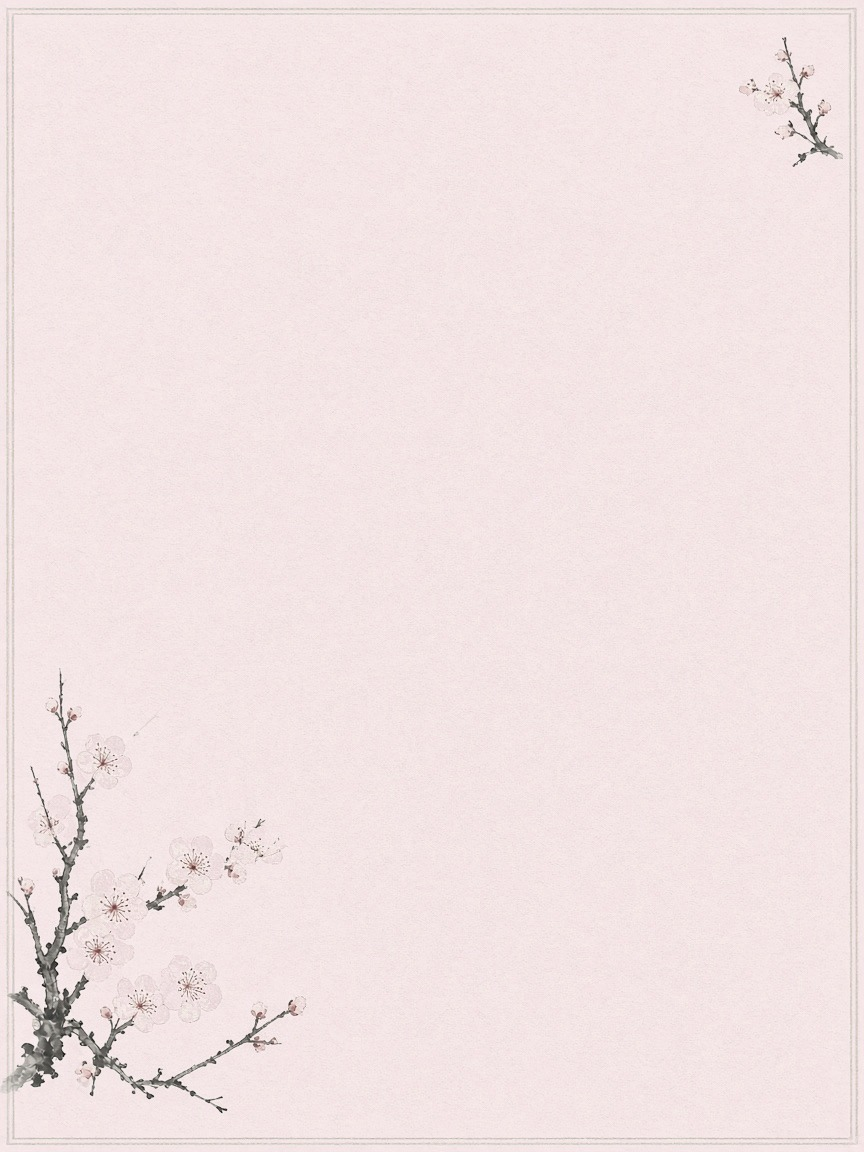
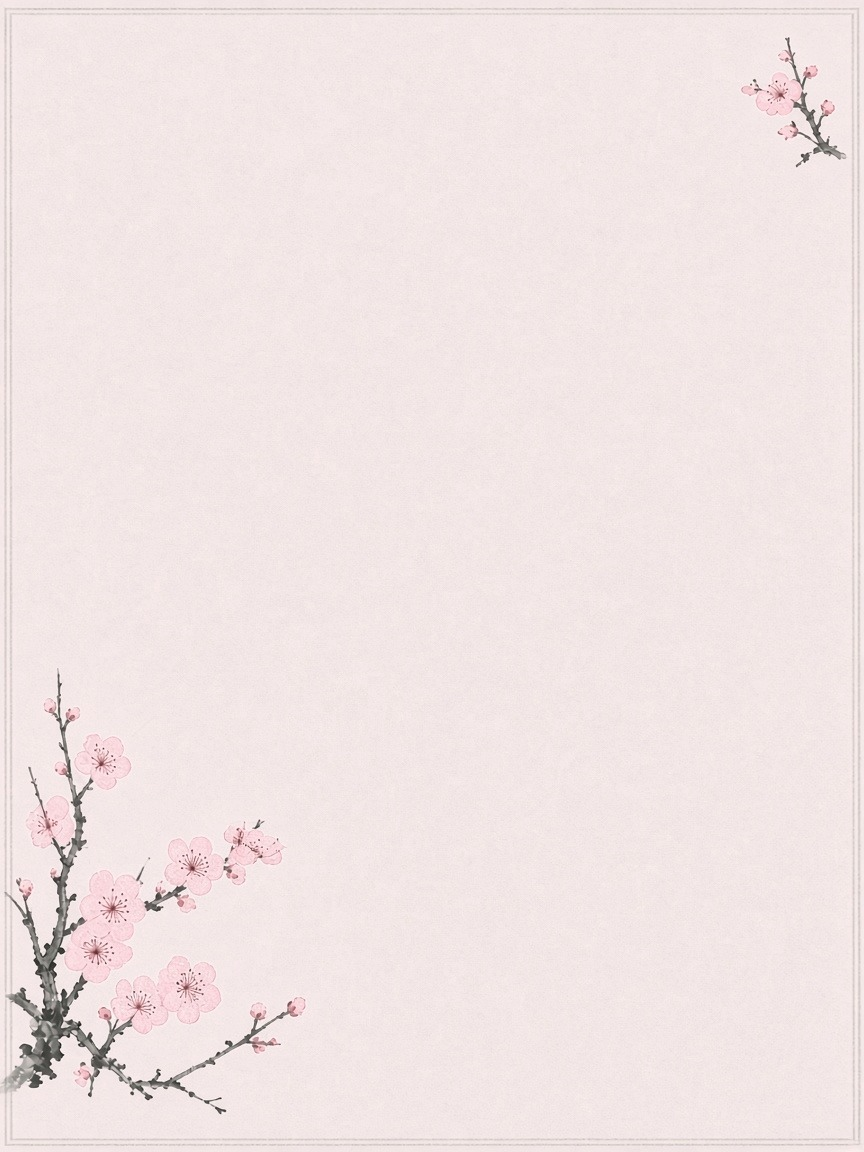
梅花改淺粉、荷花換成紫色睡蓮
梅花原先幾乎和粉底融在一起，改成比上一版紅梅再淺一階的粉紅。
荷花背景改為銀金紙上的紫色睡蓮，原先選過荷花的設定會自動對應到睡蓮。

diff --git a/copybook/index.html b/copybook/index.html
@@ -104,7 +104,7 @@
                                 <span class="bg-thumb bg-thumb--none"></span><span class="bg-name">無</span>
                             </button>
                             <button type="button" class="bg-tile" role="radio" aria-checked="false" data-bg="plum">
-                                <img class="bg-thumb" src="backgrounds/thumbs/plum.jpg?v=4" alt=""><span class="bg-name">梅花</span>
+                                <img class="bg-thumb" src="backgrounds/thumbs/plum.jpg?v=5" alt=""><span class="bg-name">梅花</span>
                             </button>
                             <button type="button" class="bg-tile" role="radio" aria-checked="false" data-bg="orchid">
                                 <img class="bg-thumb" src="backgrounds/thumbs/orchid.jpg?v=4" alt=""><span class="bg-name">蘭花</span>
@@ -118,8 +118,8 @@
                             <button type="button" class="bg-tile" role="radio" aria-checked="false" data-bg="peony">
                                 <img class="bg-thumb" src="backgrounds/thumbs/peony.jpg?v=4" alt=""><span class="bg-name">牡丹</span>
                             </button>
-                            <button type="button" class="bg-tile" role="radio" aria-checked="false" data-bg="lotus">
-                                <img class="bg-thumb" src="backgrounds/thumbs/lotus.jpg?v=5" alt=""><span class="bg-name">荷花</span>
+                            <button type="button" class="bg-tile" role="radio" aria-checked="false" data-bg="waterlily">
+                                <img class="bg-thumb" src="backgrounds/thumbs/waterlily.jpg?v=1" alt=""><span class="bg-name">睡蓮</span>
                             </button>
                             <button type="button" class="bg-tile bg-tile--upload" role="radio" aria-checked="false" data-bg="upload" id="btnBgImageUpload" title="上傳圖片作為字帖背景">
                                 <span class="bg-thumb bg-thumb--upload" id="bgUploadThumb"><span class="bg-plus" aria-hidden="true">＋</span></span><span class="bg-name">上傳</span>
@@ -181,6 +181,6 @@
         </div>
     </div>
 
-    <script src="app.js?v=90"></script>
+    <script src="app.js?v=91"></script>
 </body>
 </html>

diff --git a/copybook/app.js b/copybook/app.js
@@ -236,12 +236,12 @@
     var STROKE_CELLS_PER_LINE = 12;
     var BRUSH_FONT_STACK = "'YShiPenShutiTC', 'Kaiti TC', 'STKaiti', 'KaiTi', serif";
     var PHOTO_BGS = {
-        plum: 'backgrounds/\u6885\u82b1.jpg?v=5',
+        plum: 'backgrounds/\u6885\u82b1.jpg?v=6',
         orchid: 'backgrounds/\u862d\u82b1.jpg?v=5',
         bamboo: 'backgrounds/\u7af9\u5b50.jpg?v=5',
         chrysanthemum: 'backgrounds/\u83ca\u82b1.jpg?v=5',
         peony: 'backgrounds/\u7261\u4e39.jpg?v=5',
-        lotus: 'backgrounds/\u8377\u82b1.jpg?v=6'
+        waterlily: 'backgrounds/\u7761\u84ee.jpg?v=1'
     };
     var preview = document.getElementById('preview');
     var pdfButtons = [document.getElementById('btnPdf'), document.getElementById('btnPdfMobile')].filter(Boolean);
@@ -1498,6 +1498,7 @@
         setSelectIfValid(pageSize, settings.paper);
         var size = parseInt(settings.size, 10);
         if (fontSize && Number.isFinite(size)) fontSize.value = String(Math.max(18, Math.min(72, size)));
+        if (settings.bg === 'lotus') settings.bg = 'waterlily';
         if (settings.bg && PHOTO_BGS[settings.bg]) currentBg = settings.bg;
     }
 
